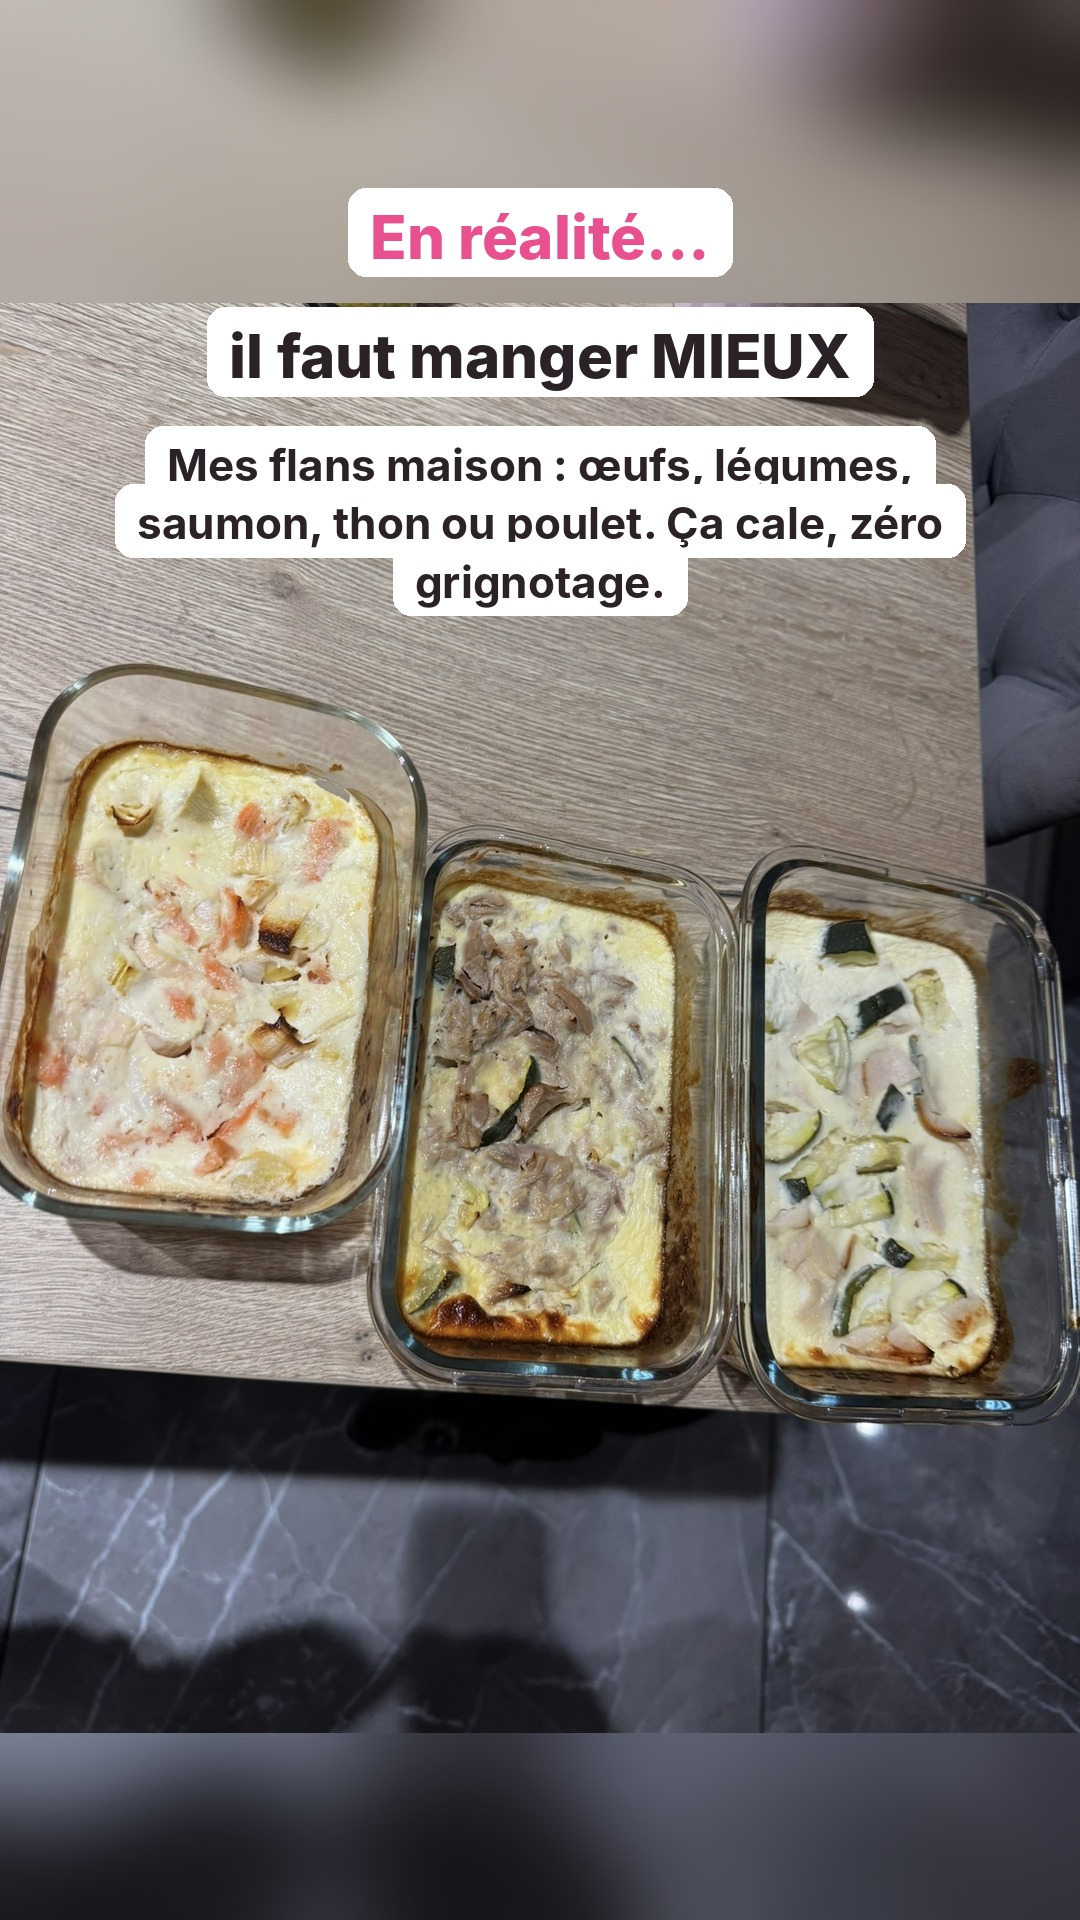
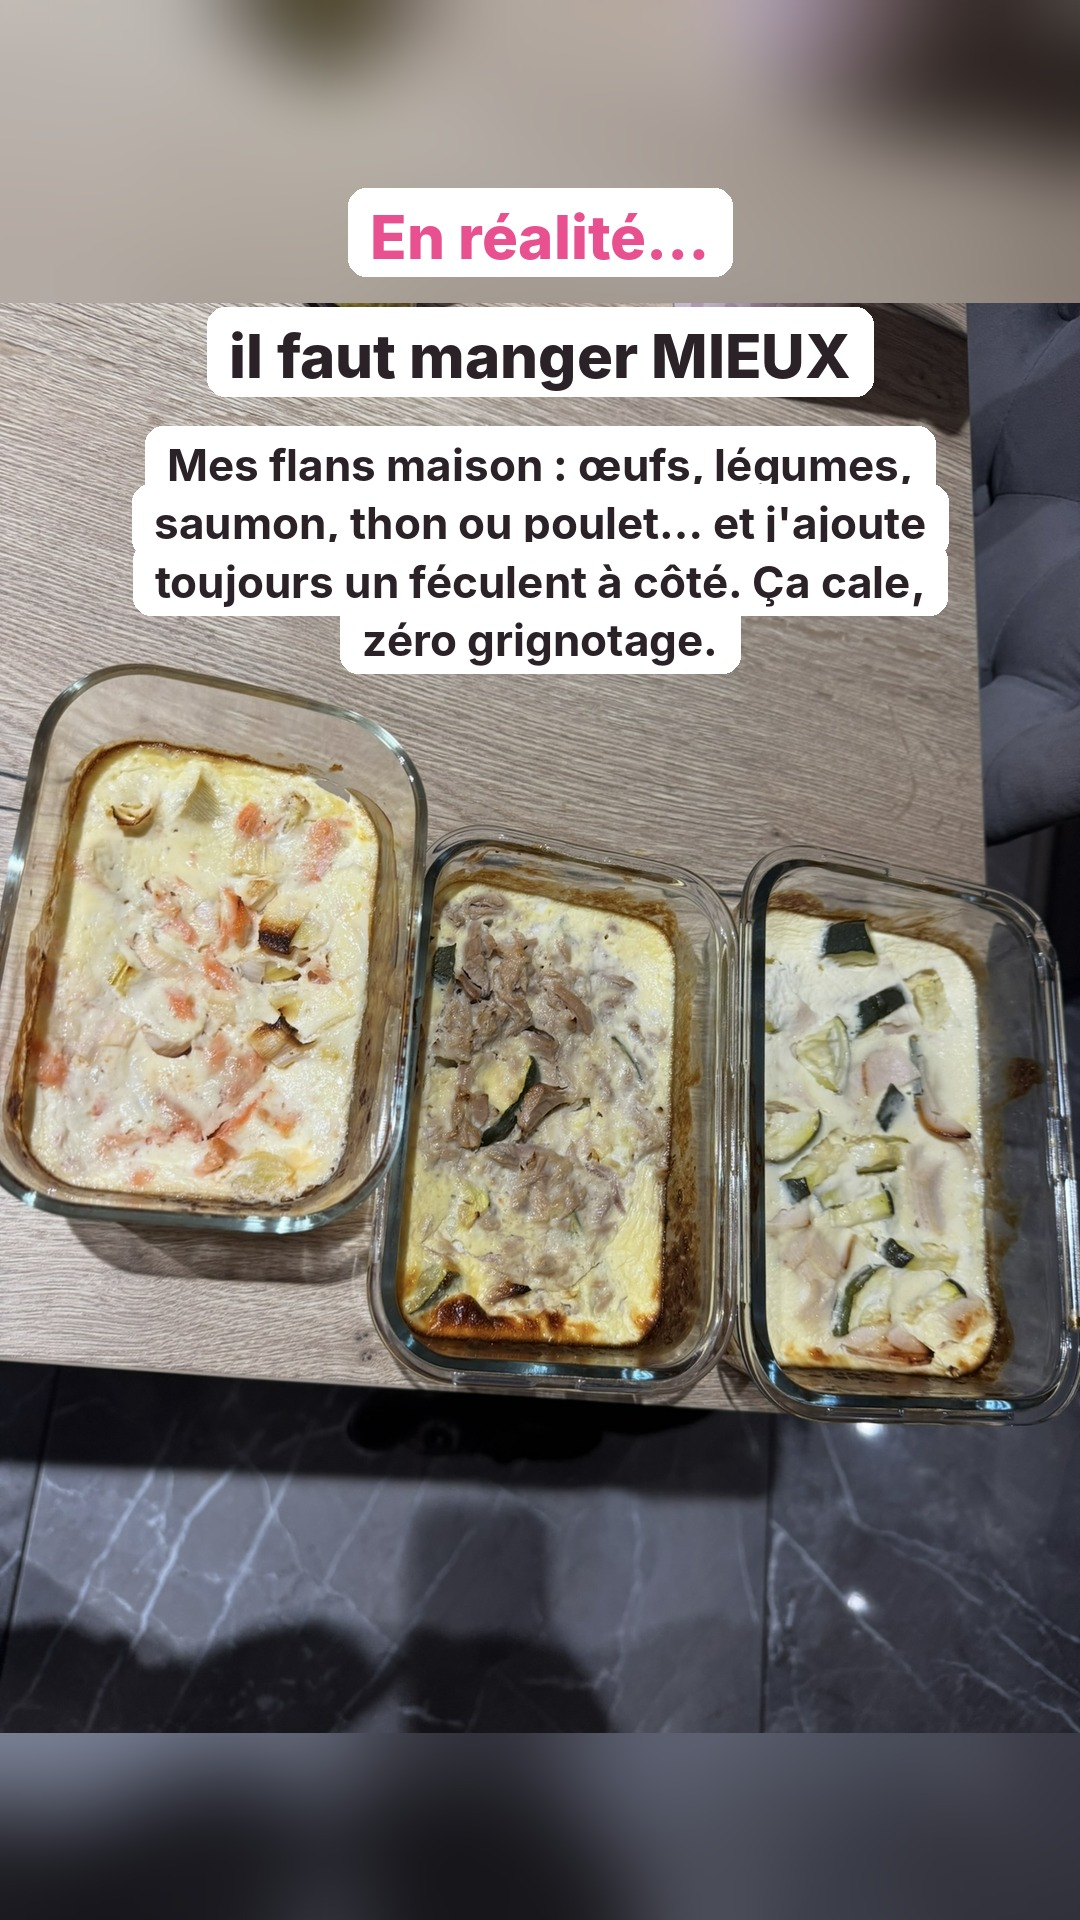
Story 2 : ajout du féculent
Claude-Session: https://claude.ai/code/session_01Qu7Kbk7XztmX7tXcsqwXcr

Changed region(s): [[0.0917, 0.25, 0.9167, 0.375]]

diff --git a/contenus/2026-11-24_stories_lifestyle_photos/contenu.py b/contenus/2026-11-24_stories_lifestyle_photos/contenu.py
@@ -6,7 +6,7 @@ STORIES = [
  {"photo": P + "3_flans.png", "y": 200, "contain": True, "focus": 0.62, "blocs": [
     ("En réalité…", 60, "pinktxt"),
     ("il faut manger MIEUX", 60, "white"),
-    ("Mes flans maison : œufs, légumes, saumon, thon ou poulet. Ça cale, zéro grignotage.", 44, "white", "b")]},
+    ("Mes flans maison : œufs, légumes, saumon, thon ou poulet… et j'ajoute toujours un féculent à côté. Ça cale, zéro grignotage.", 44, "white", "b")]},
  {"photo": P + "5_flans_four.jpg", "y": 1380, "focus": 0.4, "blocs": [
     ("Mes dîners de la semaine sont prêts", 50, "white"),
     ("On dit que manger le soir fait grossir… Faux : c'est ta journée entière qui compte.", 44, "pink", "b")]},
